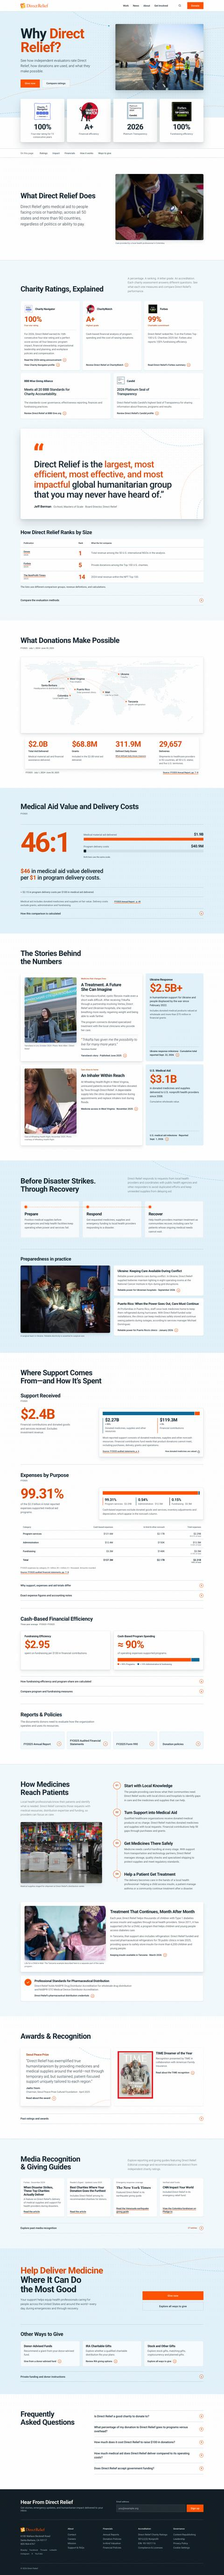
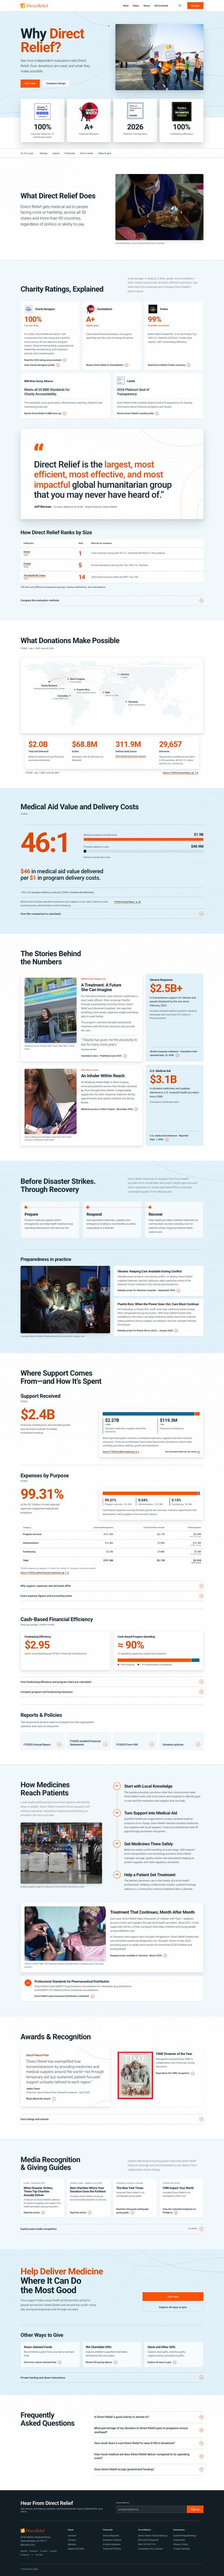
v8: arrow links for Media cards and non-source links, Roboto NYT heading

diff --git a/v8/index.html b/v8/index.html
@@ -457,10 +457,11 @@ p{margin:0}
 .pcard{display:flex;flex-direction:column;gap:8px;padding:20px;background:var(--surface);border-radius:8px;box-shadow:inset 0 0 0 1px rgba(16,34,45,.08)}
 .pcard .label{color:var(--ink-2);font-size:.62rem}
 .pcard h4{font-size:1.2rem;font-weight:700;letter-spacing:-.015em}
-.pcard h4.serifname{font-family:Georgia,"Times New Roman",serif;font-weight:700;font-size:1.3rem;letter-spacing:0}
 .pcard p{font-size:.95rem;line-height:1.45;color:var(--ink-2)}
 .pcard .links{margin-top:auto;padding-top:8px;display:flex;flex-direction:column;gap:6px}
-.pcard .links a{font-family:var(--f-display);font-weight:500;font-size:.92rem;color:var(--ink);text-decoration-color:var(--orange);text-underline-offset:3px}
+.pcard .links .arrow-link{display:inline;line-height:1.5}
+.pcard .links .arrow-link .c{display:inline-flex;vertical-align:middle;margin-left:8px;position:relative;top:-1px}
+.more-link{margin-top:16px}
 @container site (max-width:900px){.press-row{grid-template-columns:repeat(2,minmax(0,1fr))}}
 @container site (max-width:480px){.press-row{grid-template-columns:minmax(0,1fr)}}
 
@@ -1379,7 +1380,7 @@ body.deep .hero .ctas .btn-ghost{background:transparent}
       <details class="drawer archive"><summary>Past ratings and awards <span class="c" aria-hidden="true">+</span></summary>
         <div class="dr-in" style="max-width:none">
           <p><b>Ratings and recognition history:</b> Explore dated announcements from Forbes, Charity Navigator, CharityWatch, Fast Company and other organizations, along with awards honoring Direct Relief’s humanitarian work, innovation and collaboration. Current evaluator profiles appear in the <a href="#dr-ratings">ratings section above</a>.</p>
-          <p class="label src"><a href="https://www.directrelief.org/topic/ratings-awards/">Browse all ratings and awards announcements</a></p>
+          <p class="more-link"><a class="arrow-link sm" href="https://www.directrelief.org/topic/ratings-awards/">Browse all ratings and awards announcements <span class="c" aria-hidden="true">→</span></a></p>
           <p>Awards are distinct from independent charity evaluation. Current evaluator profiles appear in the ratings section above.</p>
           <div class="arch-h"><h4>Explore historical ratings and recognition</h4><span class="label">52 archived ratings, awards and honors</span></div>
           <div class="arch-cols">
@@ -1452,10 +1453,10 @@ body.deep .hero .ctas .btn-ghost{background:transparent}
         <p class="sec-lede">Explore reporting and giving guides featuring Direct Relief. Editorial coverage and recommendations are distinct from independent charity ratings.</p>
       </div>
       <div class="press-row rel">
-        <article class="pcard"><span class="label">Forbes · December 2024</span><h4>When Disaster Strikes, These Top Charities Actually Deliver</h4><p>A feature on Direct Relief’s delivery of medical supplies and support for health providers during disasters.</p><p class="links"><a href="https://www.forbes.com/sites/williampbarrett/2024/12/10/when-disaster-strikes-these-top-charities-actually-deliver/">Read the article</a></p></article>
-        <article class="pcard"><span class="label">Reader’s Digest · Updated June 2025</span><h4>Best Charities Where Your Donation Goes the Furthest</h4><p>Includes Direct Relief among its recommended charities for donors.</p><p class="links"><a href="https://www.rd.com/list/best-charities/">Read the article</a></p></article>
-        <article class="pcard"><span class="label">Emergency response coverage</span><h4 class="serifname">The New York Times</h4><p>Featured Direct Relief in its earthquake giving guide.</p><p class="links"><a href="https://www.nytimes.com/2026/06/25/world/americas/venezuela-earthquakes-help-victims.html">Read the Venezuela earthquake giving guide</a></p></article>
-        <article class="pcard"><span class="label">Verified relief funds</span><h4>CNN Impact Your World</h4><p>Included Direct Relief in its emergency relief fund.</p><p class="links"><a href="https://www.pledge.to/campaigns/help-colombia">View the Colombia fundraiser on Pledge.to</a></p></article>
+        <article class="pcard"><span class="label">Forbes · December 2024</span><h4>When Disaster Strikes, These Top Charities Actually Deliver</h4><p>A feature on Direct Relief’s delivery of medical supplies and support for health providers during disasters.</p><p class="links"><a class="arrow-link sm" href="https://www.forbes.com/sites/williampbarrett/2024/12/10/when-disaster-strikes-these-top-charities-actually-deliver/">Read the article <span class="c" aria-hidden="true">→</span></a></p></article>
+        <article class="pcard"><span class="label">Reader’s Digest · Updated June 2025</span><h4>Best Charities Where Your Donation Goes the Furthest</h4><p>Includes Direct Relief among its recommended charities for donors.</p><p class="links"><a class="arrow-link sm" href="https://www.rd.com/list/best-charities/">Read the article <span class="c" aria-hidden="true">→</span></a></p></article>
+        <article class="pcard"><span class="label">Emergency response coverage</span><h4>The New York Times</h4><p>Featured Direct Relief in its earthquake giving guide.</p><p class="links"><a class="arrow-link sm" href="https://www.nytimes.com/2026/06/25/world/americas/venezuela-earthquakes-help-victims.html">Read the Venezuela earthquake giving guide <span class="c" aria-hidden="true">→</span></a></p></article>
+        <article class="pcard"><span class="label">Verified relief funds</span><h4>CNN Impact Your World</h4><p>Included Direct Relief in its emergency relief fund.</p><p class="links"><a class="arrow-link sm" href="https://www.pledge.to/campaigns/help-colombia">View the Colombia fundraiser on Pledge.to <span class="c" aria-hidden="true">→</span></a></p></article>
       </div>
       <details class="drawer archive"><summary>Explore past media recognition <span class="label" style="margin-left:auto;color:var(--orange-text)">27 entries</span> <span class="c" aria-hidden="true">+</span></summary>
         <div class="dr-in" style="max-width:none">
@@ -1522,7 +1523,7 @@ body.deep .hero .ctas .btn-ghost{background:transparent}
           <details class="drawer"><summary>Private funding and donor instructions <span class="c" aria-hidden="true">+</span></summary>
             <div class="dr-in">
               <p>Direct Relief does not accept government funding. Gifts designated for a specific emergency or program are used only for that purpose, including directly related administrative costs. Unrestricted support allows Direct Relief to respond to needs across its work.</p>
-              <p class="label src"><a href="https://www.directrelief.org/about/finance/donation-policies/">Direct Relief’s donation policy</a></p>
+              <p class="more-link"><a class="arrow-link sm" href="https://www.directrelief.org/about/finance/donation-policies/">Direct Relief’s donation policy <span class="c" aria-hidden="true">→</span></a></p>
             </div>
           </details>
         </div>
